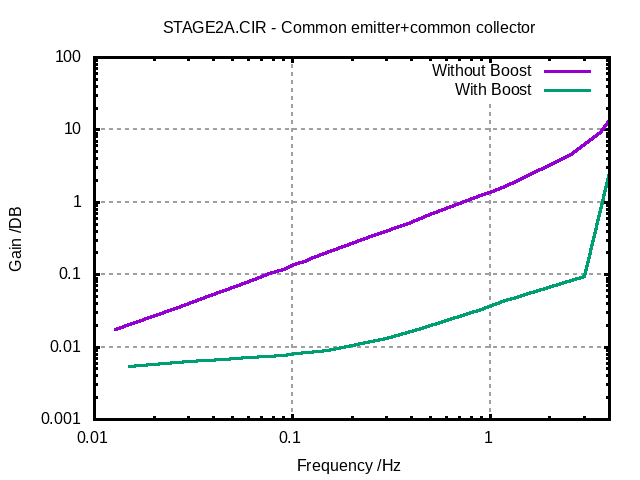
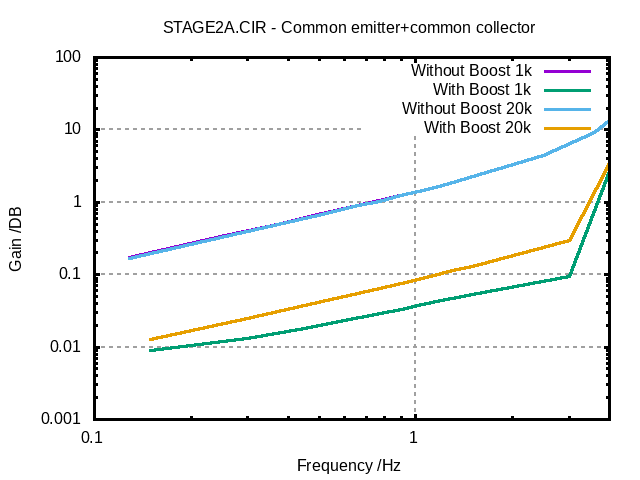
Modify 02_STAGE2_THD Add 20k result

diff --git a/Ngspice_Sim/晶体管电路设计与制作-单管双管电路以及各种晶体管应用电路/chapter_3/02_STAGE2_THD/THD_cal_20k.py b/Ngspice_Sim/晶体管电路设计与制作-单管双管电路以及各种晶体管应用电路/chapter_3/02_STAGE2_THD/THD_cal_20k.py
@@ -1,4 +1,4 @@
-filename = "STAGE2_THD.CIR"
+filename = "STAGE2_THD_20k.CIR"
 min_VIN = 0.01
 max_VIN = 1
 Change_num = 2
@@ -38,7 +38,7 @@ for i in range(0,Change_num):
         result.truncate()         #如果已存在该文件，则清空文件内容
         for data_line in target.readlines():
             if " fourier" in data_line :
-                print("fourier 1000 V(8) > " + filename+"_"+str(i)+"_"+str(j)+".out.TEMP",file=result)
+                print("fourier 20000 V(8) > " + filename+"_"+str(i)+"_"+str(j)+".out.TEMP",file=result)
             elif  "Voltage_RMS.out" in data_line :
                 print(" write Voltage_RMS" +"_"+str(i)+"_"+str(j)+ ".out.TEMP ymax" ,file=result)
             elif  " alterparam VIN" in data_line :
